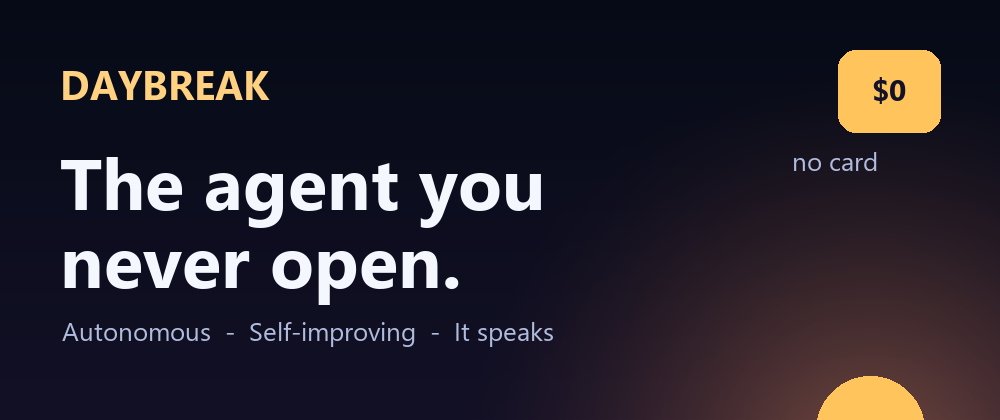
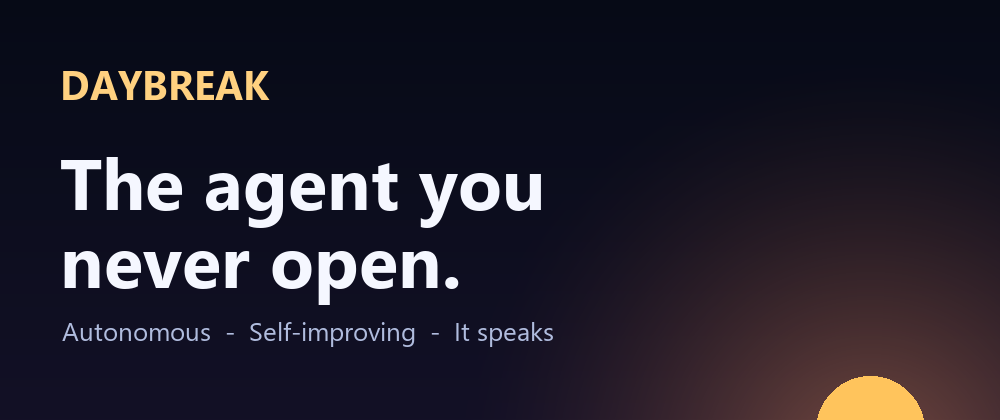
chore: remove \ badge from cover image

Changed region(s): [[0.837, 0.0929, 0.961, 0.3405], [0.775, 0.3714, 0.899, 0.4024]]

diff --git a/assets/make_cover.py b/assets/make_cover.py
@@ -76,17 +76,5 @@ draw.text((60, 210), "never open.", font=f_title, fill=(245, 247, 255))
 draw.text((62, 312), "Autonomous  -  Self-improving  -  It speaks",
           font=f_sub, fill=(176, 188, 222))
 
-# $0 badge (top-right)
-badge_text = "$0"
-bx0, by0, bx1, by1 = 838, 50, 940, 132
-draw.rounded_rectangle([bx0, by0, bx1, by1], radius=18,
-                       fill=(255, 196, 92))
-tb = draw.textbbox((0, 0), badge_text, font=f_badge)
-tw, th = tb[2] - tb[0], tb[3] - tb[1]
-draw.text((bx0 + (bx1 - bx0 - tw) / 2 - tb[0],
-           by0 + (by1 - by0 - th) / 2 - tb[1]),
-          badge_text, font=f_badge, fill=(20, 18, 40))
-draw.text((792, 142), "no card", font=f_sub, fill=(176, 188, 222))
-
 img.save(OUT, "PNG")
 print("Saved", OUT, img.size)
